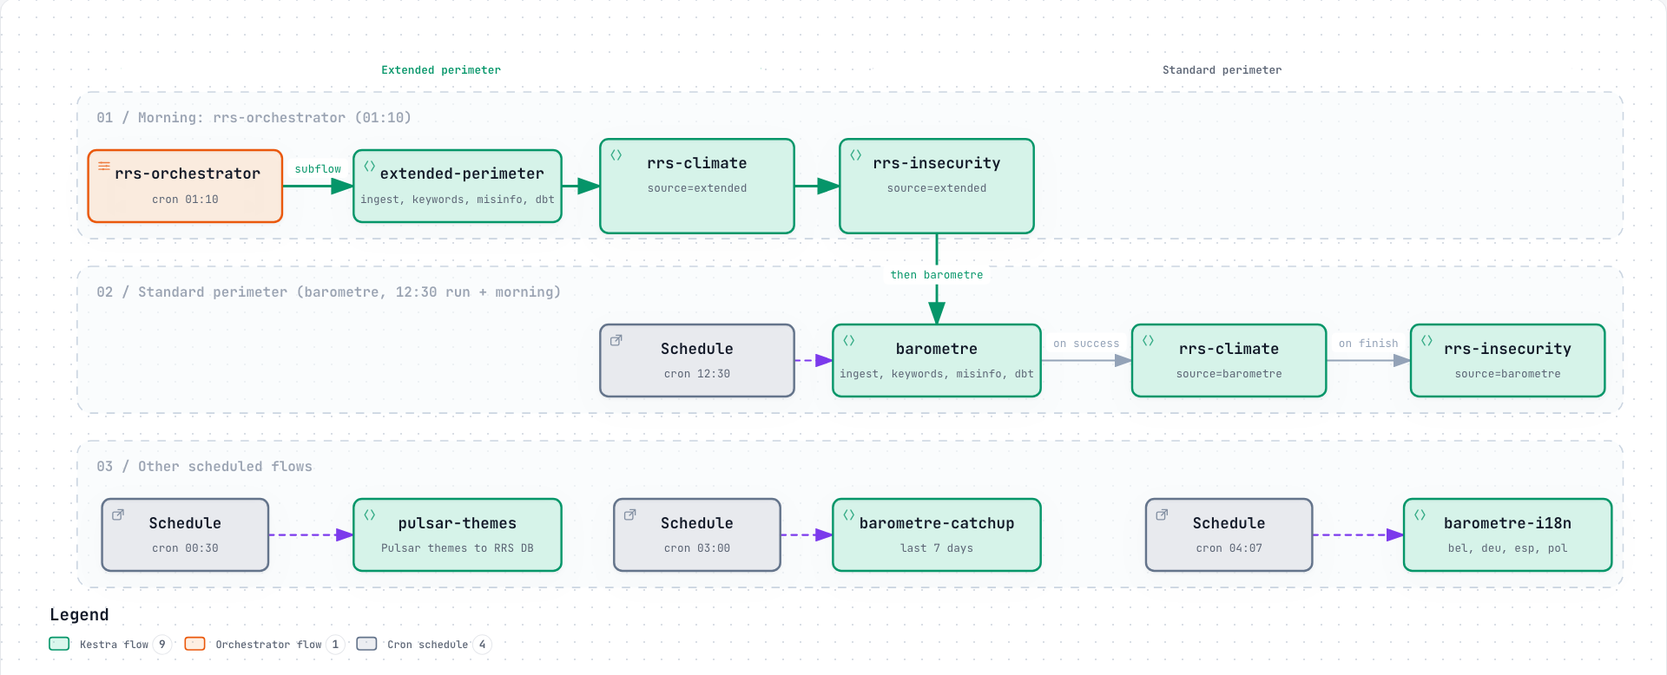
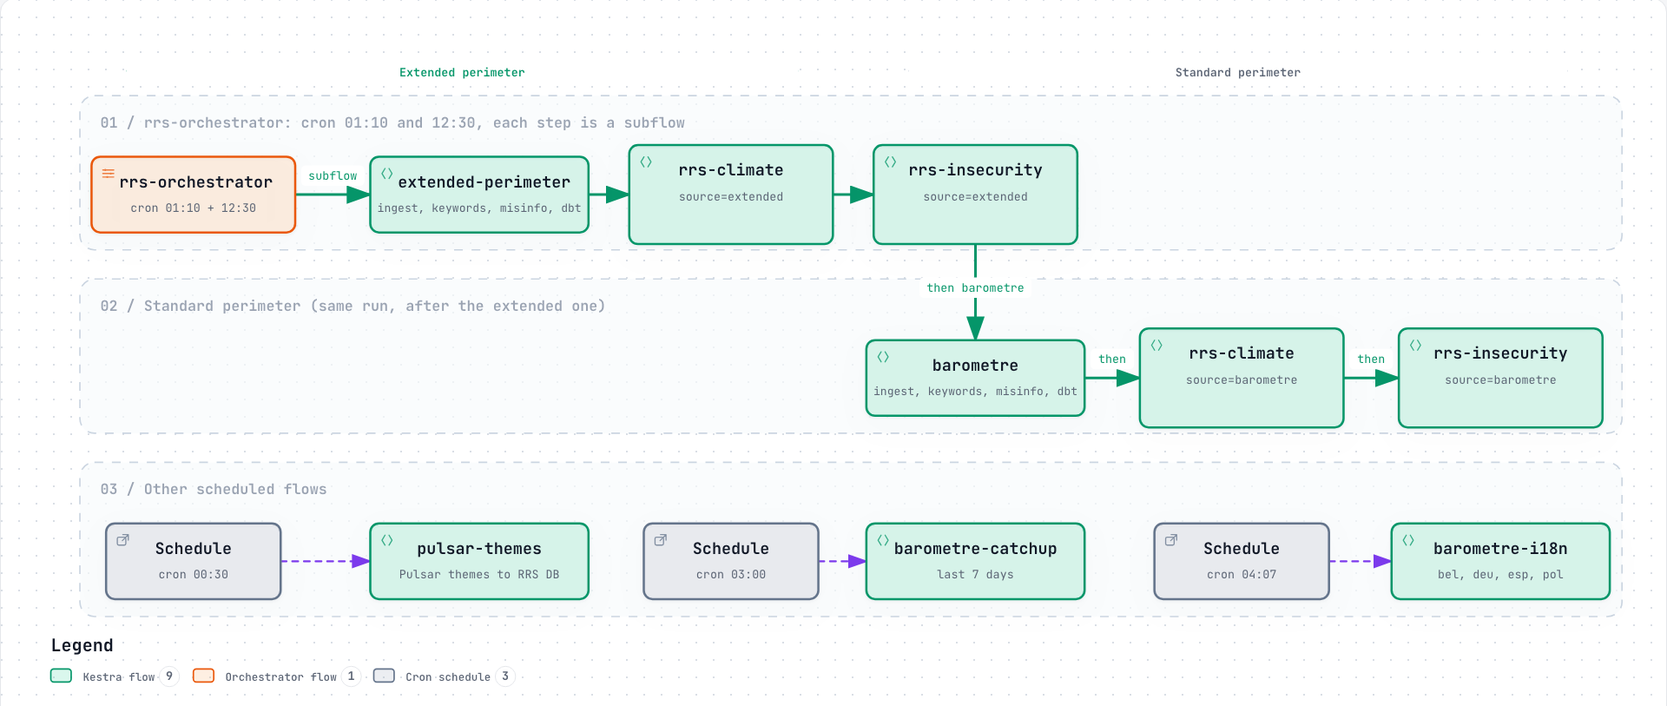
feat(kestra): run the whole chain from rrs-orchestrator on both crons
The orchestrator now runs at 01:10 and 12:30 and calls every step as a Subflow
(extended-perimeter, rrs ext, barometre, rrs-climate, rrs-insecurity). Remove the
barometre schedule and the rrs Flow triggers; refresh docs and diagram.

diff --git a/docs/diagrams/kestra_flows.html b/docs/diagrams/kestra_flows.html
@@ -4987,7 +4987,7 @@ OTHER DEALINGS IN THE FONT SOFTWARE.
     <!-- Main Diagram -->
     <div class="diagram-container" data-detail-level="read"
          data-preset-badge-editorial-plate="ARCHIFY / PLATE 04">
-      <svg viewBox="0 0 1172 534" data-layout-contract="readable-v2" role="img" lang="en" aria-labelledby="archify-diagram-title archify-diagram-description" data-preset="classic" data-quality-profile="showcase">
+      <svg viewBox="0 0 1116 534" data-layout-contract="readable-v2" role="img" lang="en" aria-labelledby="archify-diagram-title archify-diagram-description" data-preset="classic" data-quality-profile="showcase">
         <title id="archify-diagram-title">Kestra Flows</title>
         <desc id="archify-diagram-description">A workflow diagram generated by Archify.</desc>
         <!-- Definitions -->
@@ -5013,41 +5013,40 @@ OTHER DEALINGS IN THE FONT SOFTWARE.
         <rect width="100%" height="100%" fill="url(#grid)" />
 
         <!-- Swimlanes -->
-        <rect data-graph-role="structural-frame" data-composition-frame-kind="lane" data-composition-frame-id="lane-0" x="40" y="52" width="1116" height="106" rx="10" class="c-lane" stroke-width="1"/>
-        <text x="54" y="74" class="t-dim" font-size="10" font-weight="600">01 / Morning: rrs-orchestrator (01:10)</text>
+        <rect data-graph-role="structural-frame" data-composition-frame-kind="lane" data-composition-frame-id="lane-0" x="40" y="52" width="1060" height="106" rx="10" class="c-lane" stroke-width="1"/>
+        <text x="54" y="74" class="t-dim" font-size="10" font-weight="600">01 / rrs-orchestrator: cron 01:10 and 12:30, each step is a subflow</text>
 
-        <rect data-graph-role="structural-frame" data-composition-frame-kind="lane" data-composition-frame-id="lane-1" x="40" y="178" width="1116" height="106" rx="10" class="c-lane" stroke-width="1"/>
-        <text x="54" y="200" class="t-dim" font-size="10" font-weight="600">02 / Standard perimeter (barometre, 12:30 run + morning)</text>
+        <rect data-graph-role="structural-frame" data-composition-frame-kind="lane" data-composition-frame-id="lane-1" x="40" y="178" width="1060" height="106" rx="10" class="c-lane" stroke-width="1"/>
+        <text x="54" y="200" class="t-dim" font-size="10" font-weight="600">02 / Standard perimeter (same run, after the extended one)</text>
 
-        <rect data-graph-role="structural-frame" data-composition-frame-kind="lane" data-composition-frame-id="lane-2" x="40" y="304" width="1116" height="106" rx="10" class="c-lane" stroke-width="1"/>
+        <rect data-graph-role="structural-frame" data-composition-frame-kind="lane" data-composition-frame-id="lane-2" x="40" y="304" width="1060" height="106" rx="10" class="c-lane" stroke-width="1"/>
         <text x="54" y="326" class="t-dim" font-size="10" font-weight="600">03 / Other scheduled flows</text>
 
         <!-- Phase headers -->
         <line x1="72" y1="35" x2="533.6" y2="35" class="a-emphasis" stroke-width="1.1"/>
         <rect x="72" y="27" width="461.6" height="16" rx="4" class="c-mask"/>
         <text x="302.8" y="39" class="t-backend" font-size="8" font-weight="600" text-anchor="middle">Extended perimeter</text>
-        <line x1="614.6000000000001" y1="35" x2="1118.8000000000002" y2="35" class="a-default" stroke-width="1.1"/>
-        <rect x="614.6000000000001" y="27" width="504.19999999999993" height="16" rx="4" class="c-mask"/>
-        <text x="866.7" y="39" class="t-muted" font-size="8" font-weight="600" text-anchor="middle">Standard perimeter</text>
+        <line x1="609.5999999999999" y1="35" x2="1062.6" y2="35" class="a-default" stroke-width="1.1"/>
+        <rect x="609.5999999999999" y="27" width="452.9999999999999" height="16" rx="4" class="c-mask"/>
+        <text x="836.0999999999999" y="39" class="t-muted" font-size="8" font-weight="600" text-anchor="middle">Standard perimeter</text>
 
         <!-- Workflow groups -->
 
 
         <!-- Edge paths -->
-        <path data-edge-from="barometre" data-edge-to="rrsclimate" data-edge-label="on success" data-edge-key="0" data-edge-id="e-baro-clim" data-composition-routing="workflow-v2-auto" data-edge-role="" data-composition-points="735.6,246;801.6,246" d="M 735.6 246 L 801.6 246" class="a-default" stroke-width="1.4" marker-end="url(#arrowhead)"/>
-        <path data-edge-from="rrsclimate_ext" data-edge-to="rrsinsec_ext" data-edge-key="1" data-edge-id="e-clim-insec" data-composition-routing="workflow-v2-auto" data-edge-role="" data-composition-points="557.6,120;590.6,120" d="M 557.6 120 L 590.6 120" class="a-emphasis" stroke-width="1.8" marker-end="url(#arrowhead-emphasis)"/>
-        <path data-edge-from="rrsclimate" data-edge-to="rrsinsec" data-edge-label="on finish" data-edge-key="2" data-edge-id="e-clim-insec2" data-composition-routing="workflow-v2-auto" data-edge-role="" data-composition-points="941.6,246;1002.8,246" d="M 941.6 246 L 1002.8 246" class="a-default" stroke-width="1.4" marker-end="url(#arrowhead)"/>
+        <path data-edge-from="barometre" data-edge-to="rrsclimate" data-edge-label="then" data-edge-key="0" data-edge-id="e-baro-clim" data-composition-routing="workflow-v2-auto" data-edge-role="" data-composition-points="730.6,246;768.6,246" d="M 730.6 246 L 768.6 246" class="a-emphasis" stroke-width="1.8" marker-end="url(#arrowhead-emphasis)"/>
+        <path data-edge-from="rrsclimate_ext" data-edge-to="rrsinsec_ext" data-edge-key="1" data-edge-id="e-clim-insec" data-composition-routing="workflow-v2-auto" data-edge-role="" data-composition-points="557.6,120;585.6,120" d="M 557.6 120 L 585.6 120" class="a-emphasis" stroke-width="1.8" marker-end="url(#arrowhead-emphasis)"/>
+        <path data-edge-from="rrsclimate" data-edge-to="rrsinsec" data-edge-label="then" data-edge-key="2" data-edge-id="e-clim-insec2" data-composition-routing="workflow-v2-auto" data-edge-role="" data-composition-points="908.6,246;946.6,246" d="M 908.6 246 L 946.6 246" class="a-emphasis" stroke-width="1.8" marker-end="url(#arrowhead-emphasis)"/>
         <path data-edge-from="extp" data-edge-to="rrsclimate_ext" data-edge-key="3" data-edge-id="e-ext-clim" data-composition-routing="workflow-v2-auto" data-edge-role="" data-composition-points="389.6,120;417.6,120" d="M 389.6 120 L 417.6 120" class="a-emphasis" stroke-width="1.8" marker-end="url(#arrowhead-emphasis)"/>
-        <path data-edge-from="rrsinsec_ext" data-edge-to="barometre" data-edge-label="then barometre" data-edge-key="4" data-edge-id="e-insec-baro" data-composition-routing="workflow-v2-auto" data-edge-role="" data-composition-points="660.6,154;660.6,220" d="M 660.6 154 L 660.6 220" class="a-emphasis" stroke-width="1.8" marker-end="url(#arrowhead-emphasis)"/>
+        <path data-edge-from="rrsinsec_ext" data-edge-to="barometre" data-edge-label="then barometre" data-edge-key="4" data-edge-id="e-insec-baro" data-composition-routing="workflow-v2-auto" data-edge-role="" data-composition-points="655.6,154;655.6,220" d="M 655.6 154 L 655.6 220" class="a-emphasis" stroke-width="1.8" marker-end="url(#arrowhead-emphasis)"/>
         <path data-edge-from="orch" data-edge-to="extp" data-edge-label="subflow" data-edge-key="5" data-edge-id="e-orch-ext" data-composition-routing="workflow-v2-auto" data-edge-role="" data-composition-points="188,120;239.60000000000002,120" d="M 188 120 L 239.60000000000002 120" class="a-emphasis" stroke-width="1.8" marker-end="url(#arrowhead-emphasis)"/>
-        <path data-edge-from="sched_pm" data-edge-to="barometre" data-edge-key="6" data-edge-id="e-pm-baro" data-composition-routing="workflow-v2-auto" data-edge-role="" data-composition-points="557.6,246;585.6,246" d="M 557.6 246 L 585.6 246" class="a-dashed" stroke-width="1.4" marker-end="url(#arrowhead-dashed)"/>
-        <path data-edge-from="sched_catchup" data-edge-to="catchup" data-edge-key="7" data-edge-id="e-sc-catchup" data-composition-routing="workflow-v2-auto" data-edge-role="" data-composition-points="547.6,372;585.6,372" d="M 547.6 372 L 585.6 372" class="a-dashed" stroke-width="1.4" marker-end="url(#arrowhead-dashed)"/>
-        <path data-edge-from="sched_i18n" data-edge-to="i18n" data-edge-key="8" data-edge-id="e-si-i18n" data-composition-routing="workflow-v2-auto" data-edge-role="" data-composition-points="931.6,372;997.8,372" d="M 931.6 372 L 997.8 372" class="a-dashed" stroke-width="1.4" marker-end="url(#arrowhead-dashed)"/>
-        <path data-edge-from="sched_pulsar" data-edge-to="pulsar" data-edge-key="9" data-edge-id="e-sp-pulsar" data-composition-routing="workflow-v2-auto" data-edge-role="" data-composition-points="178,372;239.60000000000002,372" d="M 178 372 L 239.60000000000002 372" class="a-dashed" stroke-width="1.4" marker-end="url(#arrowhead-dashed)"/>
+        <path data-edge-from="sched_catchup" data-edge-to="catchup" data-edge-key="6" data-edge-id="e-sc-catchup" data-composition-routing="workflow-v2-auto" data-edge-role="" data-composition-points="547.6,372;580.6,372" d="M 547.6 372 L 580.6 372" class="a-dashed" stroke-width="1.4" marker-end="url(#arrowhead-dashed)"/>
+        <path data-edge-from="sched_i18n" data-edge-to="i18n" data-edge-key="7" data-edge-id="e-si-i18n" data-composition-routing="workflow-v2-auto" data-edge-role="" data-composition-points="898.6,372;941.6,372" d="M 898.6 372 L 941.6 372" class="a-dashed" stroke-width="1.4" marker-end="url(#arrowhead-dashed)"/>
+        <path data-edge-from="sched_pulsar" data-edge-to="pulsar" data-edge-key="8" data-edge-id="e-sp-pulsar" data-composition-routing="workflow-v2-auto" data-edge-role="" data-composition-points="178,372;239.60000000000002,372" d="M 178 372 L 239.60000000000002 372" class="a-dashed" stroke-width="1.4" marker-end="url(#arrowhead-dashed)"/>
 
         <!-- Nodes -->
-        <g id="node-orch" data-node-id="orch" data-node-label="rrs-orchestrator" tabindex="0" role="button" aria-label="Focus rrs-orchestrator, cron 01:10, Morning: rrs-orchestrator (01:10) › Extended perimeter" aria-pressed="false" data-node-kind="messagebus" data-node-sublabel="cron 01:10" data-node-context="Morning: rrs-orchestrator (01:10) › Extended perimeter">
-          <title>rrs-orchestrator · cron 01:10 · Morning: rrs-orchestrator (01:10) › Extended perimeter</title>
+        <g id="node-orch" data-node-id="orch" data-node-label="rrs-orchestrator" tabindex="0" role="button" aria-label="Focus rrs-orchestrator, cron 01:10 + 12:30, rrs-orchestrator: cron 01:10 and 12:30, each step is a subflow › Extended perimeter" aria-pressed="false" data-node-kind="messagebus" data-node-sublabel="cron 01:10 + 12:30" data-node-context="rrs-orchestrator: cron 01:10 and 12:30, each step is a subflow › Extended perimeter">
+          <title>rrs-orchestrator · cron 01:10 + 12:30 · rrs-orchestrator: cron 01:10 and 12:30, each step is a subflow › Extended perimeter</title>
           <rect x="48" y="94" width="140" height="52" rx="6" class="c-mask"/>
           <rect x="48" y="94" width="140" height="52" rx="6" class="c-messagebus" stroke-width="1.5"/>
           <g aria-hidden="true" data-semantic-sigil="messagebus" class="semantic-sigil s-messagebus" transform="translate(54 100) scale(0.6875)">
@@ -5057,11 +5056,11 @@ OTHER DEALINGS IN THE FONT SOFTWARE.
             <circle cx="7" cy="11.5" r="1" class="sigil-fill"/>
           </g>
           <text data-node-label="" data-detail-anchor="" x="119.8" y="115" class="t-primary" font-size="11" font-weight="600" text-anchor="middle">rrs-orchestrator</text>
-          <text data-detail="context" x="118" y="132" class="t-muted" font-size="8" text-anchor="middle">cron 01:10</text>
+          <text data-detail="context" x="118" y="132" class="t-muted" font-size="8" text-anchor="middle">cron 01:10 + 12:30</text>
         </g>
 
-        <g id="node-extp" data-node-id="extp" data-node-label="extended-perimeter" tabindex="0" role="button" aria-label="Focus extended-perimeter, ingest, keywords, misinfo, dbt, Morning: rrs-orchestrator (01:10) › Extended perimeter" aria-pressed="false" data-node-kind="backend" data-node-sublabel="ingest, keywords, misinfo, dbt" data-node-context="Morning: rrs-orchestrator (01:10) › Extended perimeter">
-          <title>extended-perimeter · ingest, keywords, misinfo, dbt · Morning: rrs-orchestrator (01:10) › Extended perimeter</title>
+        <g id="node-extp" data-node-id="extp" data-node-label="extended-perimeter" tabindex="0" role="button" aria-label="Focus extended-perimeter, ingest, keywords, misinfo, dbt, rrs-orchestrator: cron 01:10 and 12:30, each step is a subflow › Extended perimeter" aria-pressed="false" data-node-kind="backend" data-node-sublabel="ingest, keywords, misinfo, dbt" data-node-context="rrs-orchestrator: cron 01:10 and 12:30, each step is a subflow › Extended perimeter">
+          <title>extended-perimeter · ingest, keywords, misinfo, dbt · rrs-orchestrator: cron 01:10 and 12:30, each step is a subflow › Extended perimeter</title>
           <rect x="239.60000000000002" y="94" width="150" height="52" rx="6" class="c-mask"/>
           <rect x="239.60000000000002" y="94" width="150" height="52" rx="6" class="c-backend" stroke-width="1.5"/>
           <g aria-hidden="true" data-semantic-sigil="backend" class="semantic-sigil s-backend" transform="translate(245.60000000000002 100) scale(0.6875)">
@@ -5071,8 +5070,8 @@ OTHER DEALINGS IN THE FONT SOFTWARE.
           <text data-detail="context" x="314.6" y="132" class="t-muted" font-size="7.8" text-anchor="middle">ingest, keywords, misinfo, dbt</text>
         </g>
 
-        <g id="node-rrsclimate_ext" data-node-id="rrsclimate_ext" data-node-label="rrs-climate" tabindex="0" role="button" aria-label="Focus rrs-climate, source=extended, Morning: rrs-orchestrator (01:10) › Extended perimeter" aria-pressed="false" data-node-kind="backend" data-node-sublabel="source=extended" data-node-tag="no clustering" data-node-context="Morning: rrs-orchestrator (01:10) › Extended perimeter">
-          <title>rrs-climate · source=extended · Morning: rrs-orchestrator (01:10) › Extended perimeter · no clustering</title>
+        <g id="node-rrsclimate_ext" data-node-id="rrsclimate_ext" data-node-label="rrs-climate" tabindex="0" role="button" aria-label="Focus rrs-climate, source=extended, rrs-orchestrator: cron 01:10 and 12:30, each step is a subflow › Extended perimeter" aria-pressed="false" data-node-kind="backend" data-node-sublabel="source=extended" data-node-tag="no clustering" data-node-context="rrs-orchestrator: cron 01:10 and 12:30, each step is a subflow › Extended perimeter">
+          <title>rrs-climate · source=extended · rrs-orchestrator: cron 01:10 and 12:30, each step is a subflow › Extended perimeter · no clustering</title>
           <rect x="417.6" y="86" width="140" height="68" rx="6" class="c-mask"/>
           <rect x="417.6" y="86" width="140" height="68" rx="6" class="c-backend" stroke-width="1.5"/>
           <g aria-hidden="true" data-semantic-sigil="backend" class="semantic-sigil s-backend" transform="translate(423.6 92) scale(0.6875)">
@@ -5083,61 +5082,51 @@ OTHER DEALINGS IN THE FONT SOFTWARE.
         <text data-detail="fine" x="487.6" y="142" class="t-backend" font-size="7" text-anchor="middle">no clustering</text>
         </g>
 
-        <g id="node-rrsinsec_ext" data-node-id="rrsinsec_ext" data-node-label="rrs-insecurity" tabindex="0" role="button" aria-label="Focus rrs-insecurity, source=extended, Morning: rrs-orchestrator (01:10) › Standard perimeter" aria-pressed="false" data-node-kind="backend" data-node-sublabel="source=extended" data-node-tag="no clustering" data-node-context="Morning: rrs-orchestrator (01:10) › Standard perimeter">
-          <title>rrs-insecurity · source=extended · Morning: rrs-orchestrator (01:10) › Standard perimeter · no clustering</title>
-          <rect x="590.6" y="86" width="140" height="68" rx="6" class="c-mask"/>
-          <rect x="590.6" y="86" width="140" height="68" rx="6" class="c-backend" stroke-width="1.5"/>
-          <g aria-hidden="true" data-semantic-sigil="backend" class="semantic-sigil s-backend" transform="translate(596.6 92) scale(0.6875)">
+        <g id="node-rrsinsec_ext" data-node-id="rrsinsec_ext" data-node-label="rrs-insecurity" tabindex="0" role="button" aria-label="Focus rrs-insecurity, source=extended, rrs-orchestrator: cron 01:10 and 12:30, each step is a subflow › Standard perimeter" aria-pressed="false" data-node-kind="backend" data-node-sublabel="source=extended" data-node-tag="no clustering" data-node-context="rrs-orchestrator: cron 01:10 and 12:30, each step is a subflow › Standard perimeter">
+          <title>rrs-insecurity · source=extended · rrs-orchestrator: cron 01:10 and 12:30, each step is a subflow › Standard perimeter · no clustering</title>
+          <rect x="585.6" y="86" width="140" height="68" rx="6" class="c-mask"/>
+          <rect x="585.6" y="86" width="140" height="68" rx="6" class="c-backend" stroke-width="1.5"/>
+          <g aria-hidden="true" data-semantic-sigil="backend" class="semantic-sigil s-backend" transform="translate(591.6 92) scale(0.6875)">
             <path d="M6 3 3 8l3 5M10 3l3 5-3 5"/>
           </g>
-          <text data-node-label="" data-detail-anchor="" x="660.6" y="107" class="t-primary" font-size="11" font-weight="600" text-anchor="middle">rrs-insecurity</text>
-          <text data-detail="context" x="660.6" y="124" class="t-muted" font-size="8" text-anchor="middle">source=extended</text>
-        <text data-detail="fine" x="660.6" y="142" class="t-backend" font-size="7" text-anchor="middle">no clustering</text>
+          <text data-node-label="" data-detail-anchor="" x="655.6" y="107" class="t-primary" font-size="11" font-weight="600" text-anchor="middle">rrs-insecurity</text>
+          <text data-detail="context" x="655.6" y="124" class="t-muted" font-size="8" text-anchor="middle">source=extended</text>
+        <text data-detail="fine" x="655.6" y="142" class="t-backend" font-size="7" text-anchor="middle">no clustering</text>
         </g>
 
-        <g id="node-sched_pm" data-node-id="sched_pm" data-node-label="Schedule" tabindex="0" role="button" aria-label="Focus Schedule, cron 12:30, Standard perimeter (barometre, 12:30 run + morning) › Extended perimeter" aria-pressed="false" data-node-kind="external" data-node-sublabel="cron 12:30" data-node-context="Standard perimeter (barometre, 12:30 run + morning) › Extended perimeter">
-          <title>Schedule · cron 12:30 · Standard perimeter (barometre, 12:30 run + morning) › Extended perimeter</title>
-          <rect x="417.6" y="220" width="140" height="52" rx="6" class="c-mask"/>
-          <rect x="417.6" y="220" width="140" height="52" rx="6" class="c-external" stroke-width="1.5"/>
-          <g aria-hidden="true" data-semantic-sigil="external" class="semantic-sigil s-external" transform="translate(423.6 226) scale(0.6875)">
-            <rect x="2.5" y="5" width="8.5" height="8" rx="1.5"/>
-            <path d="M8 2.5h5.5V8M13.5 2.5 7.5 8.5"/>
-          </g>
-          <text data-node-label="" data-detail-anchor="" x="487.6" y="241" class="t-primary" font-size="11" font-weight="600" text-anchor="middle">Schedule</text>
-          <text data-detail="context" x="487.6" y="258" class="t-muted" font-size="8" text-anchor="middle">cron 12:30</text>
-        </g>
-
-        <g id="node-barometre" data-node-id="barometre" data-node-label="barometre" tabindex="0" role="button" aria-label="Focus barometre, ingest, keywords, misinfo, dbt, Standard perimeter (barometre, 12:30 run + morning) › Standard perimeter" aria-pressed="false" data-node-kind="backend" data-node-sublabel="ingest, keywords, misinfo, dbt" data-node-context="Standard perimeter (barometre, 12:30 run + morning) › Standard perimeter">
-          <title>barometre · ingest, keywords, misinfo, dbt · Standard perimeter (barometre, 12:30 run + morning) › Standard perimeter</title>
-          <rect x="585.6" y="220" width="150" height="52" rx="6" class="c-mask"/>
-          <rect x="585.6" y="220" width="150" height="52" rx="6" class="c-backend" stroke-width="1.5"/>
-          <g aria-hidden="true" data-semantic-sigil="backend" class="semantic-sigil s-backend" transform="translate(591.6 226) scale(0.6875)">
+        <g id="node-barometre" data-node-id="barometre" data-node-label="barometre" tabindex="0" role="button" aria-label="Focus barometre, ingest, keywords, misinfo, dbt, Standard perimeter (same run, after the extended one) › Standard perimeter" aria-pressed="false" data-node-kind="backend" data-node-sublabel="ingest, keywords, misinfo, dbt" data-node-context="Standard perimeter (same run, after the extended one) › Standard perimeter">
+          <title>barometre · ingest, keywords, misinfo, dbt · Standard perimeter (same run, after the extended one) › Standard perimeter</title>
+          <rect x="580.6" y="220" width="150" height="52" rx="6" class="c-mask"/>
+          <rect x="580.6" y="220" width="150" height="52" rx="6" class="c-backend" stroke-width="1.5"/>
+          <g aria-hidden="true" data-semantic-sigil="backend" class="semantic-sigil s-backend" transform="translate(586.6 226) scale(0.6875)">
             <path d="M6 3 3 8l3 5M10 3l3 5-3 5"/>
           </g>
-          <text data-node-label="" data-detail-anchor="" x="660.6" y="241" class="t-primary" font-size="11" font-weight="600" text-anchor="middle">barometre</text>
-          <text data-detail="context" x="660.6" y="258" class="t-muted" font-size="7.8" text-anchor="middle">ingest, keywords, misinfo, dbt</text>
+          <text data-node-label="" data-detail-anchor="" x="655.6" y="241" class="t-primary" font-size="11" font-weight="600" text-anchor="middle">barometre</text>
+          <text data-detail="context" x="655.6" y="258" class="t-muted" font-size="7.8" text-anchor="middle">ingest, keywords, misinfo, dbt</text>
         </g>
 
-        <g id="node-rrsclimate" data-node-id="rrsclimate" data-node-label="rrs-climate" tabindex="0" role="button" aria-label="Focus rrs-climate, source=barometre, Standard perimeter (barometre, 12:30 run + morning) › Standard perimeter" aria-pressed="false" data-node-kind="backend" data-node-sublabel="source=barometre" data-node-context="Standard perimeter (barometre, 12:30 run + morning) › Standard perimeter">
-          <title>rrs-climate · source=barometre · Standard perimeter (barometre, 12:30 run + morning) › Standard perimeter</title>
-          <rect x="801.6" y="220" width="140" height="52" rx="6" class="c-mask"/>
-          <rect x="801.6" y="220" width="140" height="52" rx="6" class="c-backend" stroke-width="1.5"/>
-          <g aria-hidden="true" data-semantic-sigil="backend" class="semantic-sigil s-backend" transform="translate(807.6 226) scale(0.6875)">
+        <g id="node-rrsclimate" data-node-id="rrsclimate" data-node-label="rrs-climate" tabindex="0" role="button" aria-label="Focus rrs-climate, source=barometre, Standard perimeter (same run, after the extended one) › Standard perimeter" aria-pressed="false" data-node-kind="backend" data-node-sublabel="source=barometre" data-node-tag="clustering" data-node-context="Standard perimeter (same run, after the extended one) › Standard perimeter">
+          <title>rrs-climate · source=barometre · Standard perimeter (same run, after the extended one) › Standard perimeter · clustering</title>
+          <rect x="768.6" y="212" width="140" height="68" rx="6" class="c-mask"/>
+          <rect x="768.6" y="212" width="140" height="68" rx="6" class="c-backend" stroke-width="1.5"/>
+          <g aria-hidden="true" data-semantic-sigil="backend" class="semantic-sigil s-backend" transform="translate(774.6 218) scale(0.6875)">
             <path d="M6 3 3 8l3 5M10 3l3 5-3 5"/>
           </g>
-          <text data-node-label="" data-detail-anchor="" x="871.6" y="241" class="t-primary" font-size="11" font-weight="600" text-anchor="middle">rrs-climate</text>
-          <text data-detail="context" x="871.6" y="258" class="t-muted" font-size="8" text-anchor="middle">source=barometre</text>
+          <text data-node-label="" data-detail-anchor="" x="838.6" y="233" class="t-primary" font-size="11" font-weight="600" text-anchor="middle">rrs-climate</text>
+          <text data-detail="context" x="838.6" y="250" class="t-muted" font-size="8" text-anchor="middle">source=barometre</text>
+        <text data-detail="fine" x="838.6" y="268" class="t-backend" font-size="7" text-anchor="middle">clustering</text>
         </g>
 
-        <g id="node-rrsinsec" data-node-id="rrsinsec" data-node-label="rrs-insecurity" tabindex="0" role="button" aria-label="Focus rrs-insecurity, source=barometre, Standard perimeter (barometre, 12:30 run + morning) › Standard perimeter" aria-pressed="false" data-node-kind="backend" data-node-sublabel="source=barometre" data-node-context="Standard perimeter (barometre, 12:30 run + morning) › Standard perimeter">
-          <title>rrs-insecurity · source=barometre · Standard perimeter (barometre, 12:30 run + morning) › Standard perimeter</title>
-          <rect x="1002.8" y="220" width="140" height="52" rx="6" class="c-mask"/>
-          <rect x="1002.8" y="220" width="140" height="52" rx="6" class="c-backend" stroke-width="1.5"/>
-          <g aria-hidden="true" data-semantic-sigil="backend" class="semantic-sigil s-backend" transform="translate(1008.8 226) scale(0.6875)">
+        <g id="node-rrsinsec" data-node-id="rrsinsec" data-node-label="rrs-insecurity" tabindex="0" role="button" aria-label="Focus rrs-insecurity, source=barometre, Standard perimeter (same run, after the extended one) › Standard perimeter" aria-pressed="false" data-node-kind="backend" data-node-sublabel="source=barometre" data-node-tag="clustering" data-node-context="Standard perimeter (same run, after the extended one) › Standard perimeter">
+          <title>rrs-insecurity · source=barometre · Standard perimeter (same run, after the extended one) › Standard perimeter · clustering</title>
+          <rect x="946.6" y="212" width="140" height="68" rx="6" class="c-mask"/>
+          <rect x="946.6" y="212" width="140" height="68" rx="6" class="c-backend" stroke-width="1.5"/>
+          <g aria-hidden="true" data-semantic-sigil="backend" class="semantic-sigil s-backend" transform="translate(952.6 218) scale(0.6875)">
             <path d="M6 3 3 8l3 5M10 3l3 5-3 5"/>
           </g>
-          <text data-node-label="" data-detail-anchor="" x="1072.8" y="241" class="t-primary" font-size="11" font-weight="600" text-anchor="middle">rrs-insecurity</text>
-          <text data-detail="context" x="1072.8" y="258" class="t-muted" font-size="8" text-anchor="middle">source=barometre</text>
+          <text data-node-label="" data-detail-anchor="" x="1016.6" y="233" class="t-primary" font-size="11" font-weight="600" text-anchor="middle">rrs-insecurity</text>
+          <text data-detail="context" x="1016.6" y="250" class="t-muted" font-size="8" text-anchor="middle">source=barometre</text>
+        <text data-detail="fine" x="1016.6" y="268" class="t-backend" font-size="7" text-anchor="middle">clustering</text>
         </g>
 
         <g id="node-sched_pulsar" data-node-id="sched_pulsar" data-node-label="Schedule" tabindex="0" role="button" aria-label="Focus Schedule, cron 00:30, Other scheduled flows › Extended perimeter" aria-pressed="false" data-node-kind="external" data-node-sublabel="cron 00:30" data-node-context="Other scheduled flows › Extended perimeter">
@@ -5177,58 +5166,57 @@ OTHER DEALINGS IN THE FONT SOFTWARE.
 
         <g id="node-catchup" data-node-id="catchup" data-node-label="barometre-catchup" tabindex="0" role="button" aria-label="Focus barometre-catchup, last 7 days, Other scheduled flows › Standard perimeter" aria-pressed="false" data-node-kind="backend" data-node-sublabel="last 7 days" data-node-context="Other scheduled flows › Standard perimeter">
           <title>barometre-catchup · last 7 days · Other scheduled flows › Standard perimeter</title>
-          <rect x="585.6" y="346" width="150" height="52" rx="6" class="c-mask"/>
-          <rect x="585.6" y="346" width="150" height="52" rx="6" class="c-backend" stroke-width="1.5"/>
-          <g aria-hidden="true" data-semantic-sigil="backend" class="semantic-sigil s-backend" transform="translate(591.6 352) scale(0.6875)">
+          <rect x="580.6" y="346" width="150" height="52" rx="6" class="c-mask"/>
+          <rect x="580.6" y="346" width="150" height="52" rx="6" class="c-backend" stroke-width="1.5"/>
+          <g aria-hidden="true" data-semantic-sigil="backend" class="semantic-sigil s-backend" transform="translate(586.6 352) scale(0.6875)">
             <path d="M6 3 3 8l3 5M10 3l3 5-3 5"/>
           </g>
-          <text data-node-label="" data-detail-anchor="" x="660.7" y="367" class="t-primary" font-size="11" font-weight="600" text-anchor="middle">barometre-catchup</text>
-          <text data-detail="context" x="660.6" y="384" class="t-muted" font-size="8" text-anchor="middle">last 7 days</text>
+          <text data-node-label="" data-detail-anchor="" x="655.7" y="367" class="t-primary" font-size="11" font-weight="600" text-anchor="middle">barometre-catchup</text>
+          <text data-detail="context" x="655.6" y="384" class="t-muted" font-size="8" text-anchor="middle">last 7 days</text>
         </g>
 
         <g id="node-sched_i18n" data-node-id="sched_i18n" data-node-label="Schedule" tabindex="0" role="button" aria-label="Focus Schedule, cron 04:07, Other scheduled flows › Standard perimeter" aria-pressed="false" data-node-kind="external" data-node-sublabel="cron 04:07" data-node-context="Other scheduled flows › Standard perimeter">
           <title>Schedule · cron 04:07 · Other scheduled flows › Standard perimeter</title>
-          <rect x="811.6" y="346" width="120" height="52" rx="6" class="c-mask"/>
-          <rect x="811.6" y="346" width="120" height="52" rx="6" class="c-external" stroke-width="1.5"/>
-          <g aria-hidden="true" data-semantic-sigil="external" class="semantic-sigil s-external" transform="translate(817.6 352) scale(0.6875)">
+          <rect x="778.6" y="346" width="120" height="52" rx="6" class="c-mask"/>
+          <rect x="778.6" y="346" width="120" height="52" rx="6" class="c-external" stroke-width="1.5"/>
+          <g aria-hidden="true" data-semantic-sigil="external" class="semantic-sigil s-external" transform="translate(784.6 352) scale(0.6875)">
             <rect x="2.5" y="5" width="8.5" height="8" rx="1.5"/>
             <path d="M8 2.5h5.5V8M13.5 2.5 7.5 8.5"/>
           </g>
-          <text data-node-label="" data-detail-anchor="" x="871.6" y="367" class="t-primary" font-size="11" font-weight="600" text-anchor="middle">Schedule</text>
-          <text data-detail="context" x="871.6" y="384" class="t-muted" font-size="8" text-anchor="middle">cron 04:07</text>
+          <text data-node-label="" data-detail-anchor="" x="838.6" y="367" class="t-primary" font-size="11" font-weight="600" text-anchor="middle">Schedule</text>
+          <text data-detail="context" x="838.6" y="384" class="t-muted" font-size="8" text-anchor="middle">cron 04:07</text>
         </g>
 
         <g id="node-i18n" data-node-id="i18n" data-node-label="barometre-i18n" tabindex="0" role="button" aria-label="Focus barometre-i18n, bel, deu, esp, pol, Other scheduled flows › Standard perimeter" aria-pressed="false" data-node-kind="backend" data-node-sublabel="bel, deu, esp, pol" data-node-context="Other scheduled flows › Standard perimeter">
           <title>barometre-i18n · bel, deu, esp, pol · Other scheduled flows › Standard perimeter</title>
-          <rect x="997.8" y="346" width="150" height="52" rx="6" class="c-mask"/>
-          <rect x="997.8" y="346" width="150" height="52" rx="6" class="c-backend" stroke-width="1.5"/>
-          <g aria-hidden="true" data-semantic-sigil="backend" class="semantic-sigil s-backend" transform="translate(1003.8 352) scale(0.6875)">
+          <rect x="941.6" y="346" width="150" height="52" rx="6" class="c-mask"/>
+          <rect x="941.6" y="346" width="150" height="52" rx="6" class="c-backend" stroke-width="1.5"/>
+          <g aria-hidden="true" data-semantic-sigil="backend" class="semantic-sigil s-backend" transform="translate(947.6 352) scale(0.6875)">
             <path d="M6 3 3 8l3 5M10 3l3 5-3 5"/>
           </g>
-          <text data-node-label="" data-detail-anchor="" x="1072.8" y="367" class="t-primary" font-size="11" font-weight="600" text-anchor="middle">barometre-i18n</text>
-          <text data-detail="context" x="1072.8" y="384" class="t-muted" font-size="8" text-anchor="middle">bel, deu, esp, pol</text>
+          <text data-node-label="" data-detail-anchor="" x="1016.6" y="367" class="t-primary" font-size="11" font-weight="600" text-anchor="middle">barometre-i18n</text>
+          <text data-detail="context" x="1016.6" y="384" class="t-muted" font-size="8" text-anchor="middle">bel, deu, esp, pol</text>
         </g>
 
         <!-- Edge labels -->
-        <g data-detail="context" data-edge-from="barometre" data-edge-to="rrsclimate" data-edge-label="on success" data-edge-key="0" data-edge-id="e-baro-clim">
-          <rect x="739.6" y="226" width="58" height="14" rx="3" class="c-mask"/>
-          <text x="768.6" y="236" class="t-edge-default" font-size="8" text-anchor="middle">on success</text>
+        <g data-detail="context" data-edge-from="barometre" data-edge-to="rrsclimate" data-edge-label="then" data-edge-key="0" data-edge-id="e-baro-clim">
+          <rect x="734.6" y="226" width="30" height="14" rx="3" class="c-mask"/>
+          <text x="749.6" y="236" class="t-edge-emphasis" font-size="8" text-anchor="middle">then</text>
         </g>
 
-        <g data-detail="context" data-edge-from="rrsclimate" data-edge-to="rrsinsec" data-edge-label="on finish" data-edge-key="2" data-edge-id="e-clim-insec2">
-          <rect x="945.6" y="226" width="53.199999999999996" height="14" rx="3" class="c-mask"/>
-          <text x="972.2" y="236" class="t-edge-default" font-size="8" text-anchor="middle">on finish</text>
+        <g data-detail="context" data-edge-from="rrsclimate" data-edge-to="rrsinsec" data-edge-label="then" data-edge-key="2" data-edge-id="e-clim-insec2">
+          <rect x="912.6" y="226" width="30" height="14" rx="3" class="c-mask"/>
+          <text x="927.6" y="236" class="t-edge-emphasis" font-size="8" text-anchor="middle">then</text>
         </g>
 
         <g data-detail="context" data-edge-from="rrsinsec_ext" data-edge-to="barometre" data-edge-label="then barometre" data-edge-key="4" data-edge-id="e-insec-baro">
-          <rect x="622" y="177" width="77.2" height="14" rx="3" class="c-mask"/>
-          <text x="660.6" y="187" class="t-edge-emphasis" font-size="8" text-anchor="middle">then barometre</text>
+          <rect x="617" y="177" width="77.2" height="14" rx="3" class="c-mask"/>
+          <text x="655.6" y="187" class="t-edge-emphasis" font-size="8" text-anchor="middle">then barometre</text>
         </g>
         <g data-detail="context" data-edge-from="orch" data-edge-to="extp" data-edge-label="subflow" data-edge-key="5" data-edge-id="e-orch-ext">
           <rect x="192" y="100" width="43.6" height="14" rx="3" class="c-mask"/>
           <text x="213.8" y="110" class="t-edge-emphasis" font-size="8" text-anchor="middle">subflow</text>
         </g>
-
 
 
 
@@ -5439,11 +5427,11 @@ OTHER DEALINGS IN THE FONT SOFTWARE.
       <div class="card">
         <div class="card-header">
           <div class="card-dot rose"></div>
-          <h3>Triggers</h3>
+          <h3>Orchestration</h3>
         </div>
         <ul>
-          <li>rrs-climate fires after barometre, rrs-insecurity after rrs-climate</li>
-          <li>Executions labelled source=extended do not fire rrs-insecurity</li>
+          <li>Every step is a Subflow with wait: true</li>
+          <li>A failed step stops the rest of the run</li>
         </ul>
       </div>
     </div>

diff --git a/README.md b/README.md
@@ -471,13 +471,15 @@ Interactive version (download and open in a browser): [`docs/diagrams/kestra_flo
 
 The diagram covers all prod flows in `infrastructure/kestra/flows/` (dev flows mirror them). It is generated with [Archify](https://github.com/tt-a1i/archify) from `docs/diagrams/kestra_flows.archify.json`; to update it, edit that file (or ask an agent with the Archify skill to regenerate it) and re-export the HTML to `docs/diagrams/kestra_flows.html` and the PNG to `docs/images/kestra_flows.png`.
 
-The `rrs-orchestrator` flow (`main_rrs_orchestrator.yaml`) runs every morning at 01:10 (Europe/Paris):
+The `rrs-orchestrator` flow (`main_rrs_orchestrator.yaml`) runs twice a day, at 01:10 and 12:30 (Europe/Paris), and is the only trigger of this chain. Each step is a `Subflow` task with `wait: true` and `transmitFailed: true`, so a failed step stops the rest of the run:
 1. `extended-perimeter`
 2. `rrs-climate` with `source=extended`, `run_clustering=false`
 3. `rrs-insecurity` with `source=extended`, `run_clustering=false`
-4. `barometre`, whose completion fires the usual flow triggers: `rrs-climate` then `rrs-insecurity` on the `barometre` source, with clustering.
+4. `barometre`
+5. `rrs-climate` on the `barometre` source (with clustering)
+6. `rrs-insecurity` on the `barometre` source (with clustering)
 
-The `barometre` 12:30 afternoon schedule is unchanged and still triggers the RRS chain on its own. The orchestrator labels its extended `rrs-*` executions `source: extended`, and `rrs-insecurity`'s trigger ignores them. See `rrs/README.md` for how RRS reads the extended source.
+`barometre`, `rrs-climate` and `rrs-insecurity` have no schedule or flow trigger of their own anymore; run them manually or through the orchestrator. See `rrs/README.md` for how RRS reads the extended source.
 
 # Mediatre to S3
 For a security nets, we have configured at data pipeline from Mediatree API to S3 (Object Storage Scaleway) with partition :
